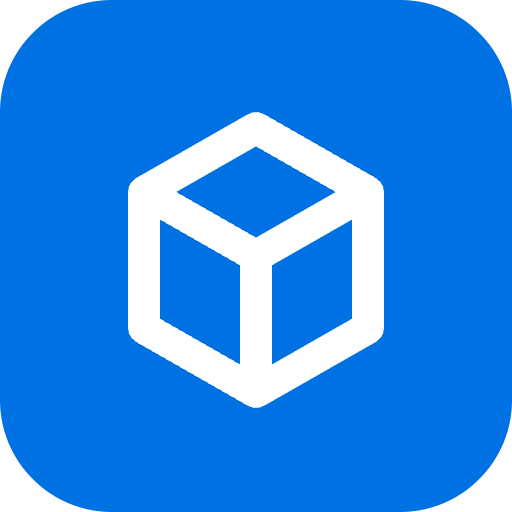
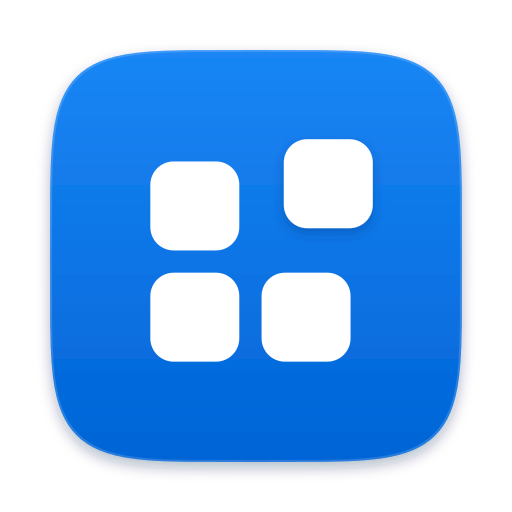
brand: new OpenMacApps mark and brand kit (#12)
Replace the cube mark with the chosen category-standard mark: a blue
squircle holding a 2x2 app grid with the top-right tile lifted out.
Site icons, sidebar and top bar brand, README badge and social card use
it; public/brand/ holds the kit and docs/BRAND.md the rules.

diff --git a/design/brand-board.html b/design/brand-board.html
@@ -1,0 +1,61 @@
+<!doctype html>
+<html lang="en">
+<meta charset="utf-8">
+<title>OpenMacApps brand board</title>
+<!-- Source of docs/brand.png. Capture at 1440 × 960, device scale 1, in a browser on macOS so system-ui resolves to SF Pro. -->
+<style>
+*{box-sizing:border-box}
+html,body{margin:0;width:1440px;height:960px;overflow:hidden;background:#f5f5f7;color:#1d1d1f;font:400 14px/1.4 system-ui,-apple-system,BlinkMacSystemFont,sans-serif;-webkit-font-smoothing:antialiased}
+body{padding:56px;display:grid;grid-template-columns:400px 1fr 1fr;grid-template-rows:auto 1fr 1fr auto;gap:24px}
+.panel{border-radius:20px;background:#fff;padding:28px;display:flex;flex-direction:column;gap:20px}
+.dark{background:#1e1e1e;color:#f5f5f7}
+.label{font-size:12px;font-weight:600;letter-spacing:.04em;text-transform:uppercase;color:#6e6e73}
+.dark .label{color:#a1a1a6}
+header{grid-column:1/-1;display:flex;align-items:baseline;justify-content:space-between}
+h1{margin:0;font-size:34px;font-weight:700;letter-spacing:-.02em}
+header p{margin:0;color:#6e6e73;font-size:17px}
+.panel>:last-child{margin:auto 0}
+.icon{grid-row:2/5}
+.icon img{width:300px;height:300px;align-self:center}
+.lockup img{height:48px;align-self:flex-start}
+.palette-panel{grid-column:2/4}
+.sizes{display:flex;align-items:flex-end;gap:28px}
+.sizes figure{margin:0;display:flex;flex-direction:column;align-items:center;gap:8px;font-size:12px;color:#6e6e73}
+.dark .sizes figure{color:#a1a1a6}
+.palette{display:flex;gap:16px}
+.swatch{flex:1;display:flex;flex-direction:column;gap:6px;font-size:13px}
+.chip{height:64px;border-radius:12px}
+.swatch b{font-weight:600}
+.swatch span{color:#6e6e73;font-variant-numeric:tabular-nums}
+</style>
+<header><h1>OpenMacApps</h1><p>An app grid with one tile lifted out: the apps are open.</p></header>
+<section class="panel icon"><span class="label">App icon</span><img src="../public/brand/app-icon.svg" alt=""></section>
+  <section class="panel lockup"><span class="label">Lockup, light</span><img src="../public/brand/lockup-light.svg" alt=""></section>
+  <section class="panel lockup dark"><span class="label">Lockup, dark</span><img src="../public/brand/lockup-dark.svg" alt=""></section>
+  <section class="panel"><span class="label">Mark and favicon, true size</span>
+    <div class="sizes">
+      <figure><img src="../public/brand/mark.svg" width="64" height="64" alt="">64</figure>
+      <figure><img src="../public/brand/mark.svg" width="28" height="28" alt="">28</figure>
+      <figure><img src="../public/favicon.svg" width="24" height="24" alt="">24</figure>
+      <figure><img src="../public/favicon.svg" width="16" height="16" alt="">16</figure>
+      <figure><img src="../public/brand/glyph-black.svg" width="28" height="28" alt="">glyph</figure>
+    </div>
+  </section>
+  <section class="panel dark"><span class="label">On dark</span>
+    <div class="sizes">
+      <figure><img src="../public/brand/mark.svg" width="64" height="64" alt="">64</figure>
+      <figure><img src="../public/brand/mark.svg" width="28" height="28" alt="">28</figure>
+      <figure><img src="../public/favicon.svg" width="24" height="24" alt="">24</figure>
+      <figure><img src="../public/favicon.svg" width="16" height="16" alt="">16</figure>
+      <figure><img src="../public/brand/glyph-white.svg" width="28" height="28" alt="">glyph</figure>
+    </div>
+  </section>
+<section class="panel palette-panel"><span class="label">Palette</span>
+  <div class="palette">
+    <div class="swatch"><div class="chip" style="background:#0071e3"></div><b>Brand Blue</b><span>#0071E3 · Action Blue</span></div>
+    <div class="swatch"><div class="chip" style="background:linear-gradient(#1a86f5,#0064d6)"></div><b>Icon gradient</b><span>#1A86F5 → #0064D6 · icon only</span></div>
+    <div class="swatch"><div class="chip" style="background:#1d1d1f"></div><b>Label</b><span>#1D1D1F · wordmark, light</span></div>
+    <div class="swatch"><div class="chip" style="background:#f5f5f7;box-shadow:inset 0 0 0 1px rgb(0 0 0 / .1)"></div><b>Label, dark</b><span>#F5F5F7 · wordmark, dark</span></div>
+  </div>
+</section>
+</html>

diff --git a/design/social-card.html b/design/social-card.html
@@ -8,15 +8,14 @@
 html,body{margin:0;width:1200px;height:630px;overflow:hidden;background:#f5f5f7;color:#1d1d1f;font-family:system-ui,-apple-system,BlinkMacSystemFont,sans-serif;-webkit-font-smoothing:antialiased}
 body{padding:64px 76px;display:flex;flex-direction:column;justify-content:space-between}
 .brand{display:flex;gap:14px;align-items:center;font-size:34px;font-weight:700;letter-spacing:-.6px}
-.mark{display:grid;place-items:center;width:52px;height:52px;border-radius:12px;background:#0071e3;color:#fff}
-.mark svg{width:30px;height:30px}
+.mark{width:52px;height:52px}
 h1{margin:0;font-size:62px;font-weight:700;line-height:1.08;letter-spacing:-1.6px}
 h1 span{color:#6e6e73}
 .shelf{display:flex;gap:22px;align-items:center}
 .shelf img{width:84px;height:84px;object-fit:contain}
 .get{margin-left:auto;padding:12px 30px;border-radius:999px;background:#0071e3;color:#fff;font-size:24px;font-weight:700}
 </style>
-<div class="brand"><span class="mark"><svg viewBox="0 0 24 24" fill="none" stroke="currentColor" stroke-width="2.1" stroke-linejoin="round"><path d="m12 3 9 5v9l-9 5-9-5V8Z"/><path d="m3 8 9 5 9-5M12 13v9"/></svg></span>OpenMacApps</div>
+<div class="brand"><img class="mark" src="../public/brand/mark.svg" alt="">OpenMacApps</div>
 <h1>Your next favorite Mac app.<br><span>Open source, with the license in view.</span></h1>
 <div class="shelf">
   <img src="../content/apps/iina/assets/icon.png" alt="">

diff --git a/public/sw.js b/public/sw.js
@@ -1,5 +1,5 @@
-// Bump the version when the precache list or caching strategy changes.
-const CACHE = 'site-v1';
+// Bump the version when the precache list, a precached file or the caching strategy changes.
+const CACHE = 'site-v2';
 const scope = new URL(self.registration.scope);
 const offlinePage = new URL('offline/', scope).href;
 const assets = new URL('_astro/', scope).pathname;

diff --git a/src/styles/global.css b/src/styles/global.css
@@ -192,16 +192,6 @@ main:focus {
   padding: 0 8px 14px;
 }
 
-.brand-mark {
-  display: grid;
-  place-items: center;
-  width: 28px;
-  height: 28px;
-  border-radius: 7px;
-  background: var(--accent-fill);
-  color: #fff;
-}
-
 .sidebar-search {
   position: relative;
   margin: 0 2px 10px;

diff --git a/docs/BRAND.md b/docs/BRAND.md
@@ -1,0 +1,60 @@
+# OpenMacApps brand
+
+![The OpenMacApps brand board: app icon, light and dark lockups, the mark and favicon at true size on light and dark, and the palette](brand.png)
+
+## The mark
+
+A blue squircle holding a white 2×2 grid of app tiles. The top-right tile is lifted up and out of the grid: the apps are open. It was chosen on 2026-11-06 (see `PRODUCT.md`, Brand Commitments) and replaces the earlier blue square with a cube.
+
+The geometry is fixed. Use the files below; never redraw, rebalance or re-space the tiles.
+
+## Files
+
+Everything lives in `public/brand/` and is served at `https://openmacapps.com/brand/`.
+
+| File | Use |
+| --- | --- |
+| `mark.svg` | Full-bleed squircle and glyph. Interface use above 24 px: the site's sidebar and top bar, lockups, documents. |
+| `mark-512.png` | `mark.svg` as a transparent PNG. |
+| `app-icon.svg` | 1024 px macOS-style icon: 824 px body at a 100 px inset, drop shadow, shadow under the lifted tile. Use where an app icon is expected (stores, listings, slides). |
+| `app-icon-1024.png`, `-512`, `-256`, `-128` | `app-icon.svg` rendered with a transparent background. |
+| `favicon.svg` | 16 px pixel-grid version. Use it for anything rendered at 24 px or smaller. |
+| `glyph.svg` | The 2×2 lifted-tile glyph alone, in `currentColor`. |
+| `glyph-white.svg`, `glyph-black.svg` | The glyph in white or black, for one-colour contexts (embossing, single-colour print, monochrome UI). |
+| `lockup-light.svg`, `lockup-dark.svg` | Mark plus wordmark, for light and dark backgrounds. |
+
+Site icons in `public/` (`favicon.svg`, `apple-touch-icon.png`, `icon-192.png`, `icon-512.png`, `icon-maskable-512.png`), the README badge (`public/badge.svg`) and the social card (`public/social-card.png`) are derived from these files; `docs/PUBLISHING.md` explains how to re-render them. In the site, `src/components/BrandMark.astro` inlines `mark.svg`.
+
+## Palette
+
+- **Brand Blue `#0071E3`**: the site's Action Blue (`--accent-fill`). Use it wherever the brand needs a flat blue: buttons, links in brand material, a coloured background behind the white glyph.
+- **Icon gradient `#1A86F5` → `#0064D6`**, top to bottom: only inside the mark and the app icon. Never use it for buttons, text, backgrounds or charts.
+- **White `#FFFFFF`**: the glyph, always.
+- **Wordmark ink**: Label `#1D1D1F` on light backgrounds, `#F5F5F7` on dark ones.
+
+## Type
+
+The wordmark is the product name, "OpenMacApps", set in bold with tight tracking. On the site it is live text in the system font (SF Pro on Apple platforms) at 700, -0.02em, from `site.name`. In the exported lockups it is outlined from Inter Display Bold (Inter 4.1, SIL Open Font License 1.1), so the files render the same everywhere.
+
+## Lockups
+
+- Mark to the left of the wordmark, never above or below it.
+- The mark's height is 1.6 × the wordmark's cap height, and the mark is centred on the cap height.
+- The gap between mark and wordmark is 0.35 × the mark's height.
+- Use `lockup-light.svg` on white or light grey, `lockup-dark.svg` on near-black. On a photo or a busy background, use the mark alone.
+- Do not rebuild the lockup in another font or retype the wordmark next to the mark at other proportions.
+
+## Clear space and size
+
+- Keep clear space of at least 25% of the mark's width on every side, for the mark alone and for lockups (measured from the mark).
+- At 24 px or smaller, use `favicon.svg`: its tiles sit on the pixel grid and stay crisp.
+- Never render the mark below 16 px.
+
+## Don'ts
+
+- Don't recolour the glyph, the squircle or the gradient. The glyph is white on blue, or one-colour white or black on its own.
+- Never make it orange: on OpenMacApps, orange means source-available.
+- Don't rotate, skew, stretch or mirror the mark, and don't move the lifted tile.
+- Don't add effects: no extra shadows, glows, outlines, bevels or textures. The app icon's own shadows are part of `app-icon.svg` only.
+- Don't place the mark in a container shape (circle, rounded square) of another colour.
+- No Apple marks, Apple logos or "App Store" wording next to the mark or anywhere in brand material. OpenMacApps is independent and not affiliated with Apple.

diff --git a/DESIGN.md b/DESIGN.md
@@ -373,7 +373,7 @@ An Apple system palette in two appearances: neutral greys that step from canvas 
 
 ### Primary
 
-- **Action Blue** (accent-fill): filled primary buttons, the brand mark, the skip link, `accent-color` for native controls, and the 26% `::selection` tint. It is the same in both appearances; its hover is a slightly brighter blue (accent-fill-hover). Text on it is white (on-color).
+- **Action Blue** (accent-fill): filled primary buttons, the skip link, `accent-color` for native controls, and the 26% `::selection` tint. It is the same in both appearances; its hover is a slightly brighter blue (accent-fill-hover). Text on it is white (on-color). It is also the flat Brand Blue; the brand mark itself uses its own icon gradient (#1A86F5 → #0064D6), which appears nowhere else. The mark, its files and its rules are in `docs/BRAND.md`.
 - **Link Blue** (link-light / link-dark): every text link, See All, the focus ring, the caret, sidebar row glyphs and the selected tab. Brightens in dark mode for contrast.
 - **Get Blue** (get-ink-light / get-ink-dark): the label on Get pills and secondary buttons. Matches Link Blue in light; a paler blue in dark so it reads on the grey fill.
 
@@ -552,7 +552,7 @@ A three-column definition list of hairline-ruled rows: footnote term in Secondar
 
 ### Navigation
 
-- **Sidebar:** brand (28px Action Blue mark with white glyph, 19px/700 wordmark from `site.name`), search, then rows for Discover, Search, Categories and Alternatives (Lucide `ArrowRightLeft`), a Collections group and a Categories group (12px/600 Secondary Label group labels), and a hairline-topped foot with About, How We Verify (Lucide `FileCheck`), Contribute and GitHub (external rows end in a small up-right arrow). Rows are 32px, field radius, Link Blue 20px glyphs (category rows use glyph tiles); hover and current page share the Selected fill, current adds weight 600. A row stays selected for pages beneath it (an app page selects its category, an alternatives page selects Alternatives, a topic page selects its category or, without one, Categories). On mobile, How We Verify keeps the About tab selected.
+- **Sidebar:** brand (28px brand mark, a blue squircle holding a white 2×2 app grid with the top-right tile lifted out, inlined by `BrandMark.astro`; 19px/700 wordmark from `site.name`), search, then rows for Discover, Search, Categories and Alternatives (Lucide `ArrowRightLeft`), a Collections group and a Categories group (12px/600 Secondary Label group labels), and a hairline-topped foot with About, How We Verify (Lucide `FileCheck`), Contribute and GitHub (external rows end in a small up-right arrow). Rows are 32px, field radius, Link Blue 20px glyphs (category rows use glyph tiles); hover and current page share the Selected fill, current adds weight 600. A row stays selected for pages beneath it (an app page selects its category, an alternatives page selects Alternatives, a topic page selects its category or, without one, Categories). On mobile, How We Verify keeps the About tab selected.
 - **Top bar (≤900px):** sticky, 52px plus safe area, Bar Glass with blur, brand at 17px and a 44px GitHub target.
 - **Tab bar (≤900px):** fixed bottom, five equal tabs (Discover, Categories, Alternatives, Search, About) with 22px icons and 10px labels in Secondary Label; the current tab turns Link Blue. Five is the ceiling: Topics are reached through Categories rather than a sixth tab.
 

diff --git a/docs/PUBLISHING.md b/docs/PUBLISHING.md
@@ -18,9 +18,9 @@ Links to listed apps (website, repository, download, license and sources) are or
 
 `/manifest.webmanifest` comes from `src/pages/manifest.webmanifest.ts`. Its name, description and colours come from `site.ts`, and its start URL and scope come from Astro's base path. It has Search, Categories and Alternatives shortcuts. `site.themeColor` holds the opaque colours of the translucent top bar (`--bg-bar` in `src/styles/global.css` flattened onto `--bg`). The manifest and the light and dark `theme-color` meta tags in `Layout.astro` read it, so update it when the bar colour in `global.css` changes.
 
-The icons in `public/` are rendered from `public/favicon.svg`: `icon-192.png` and `icon-512.png` (rounded square), `icon-maskable-512.png` (full-bleed, glyph inside the 80% safe zone) and `apple-touch-icon.png` (180 px, full-bleed, because iOS applies its own mask). If the mark changes, re-render them. One way is to draw the SVG onto a canvas at each size in a browser and save `canvas.toDataURL('image/png')`. For the full-bleed variants, remove the `rx` corner radius first.
+The icons in `public/` come from the brand kit in `public/brand/` (see [BRAND.md](BRAND.md)): `favicon.svg` is a copy of `brand/favicon.svg`, `icon-192.png` and `icon-512.png` are rendered from `brand/app-icon.svg`, and `icon-maskable-512.png` (glyph inside the 80% safe zone) and `apple-touch-icon.png` (180 px, because iOS applies its own mask) are full-bleed: the icon gradient as a plain square, glyph from `brand/mark.svg`, no transparency. If the mark changes, re-render them all, for example with `sharp` from a temporary directory, and bump `CACHE` in `public/sw.js` so the precached icons refresh. The brand board `docs/brand.png` is a 1440 × 960 screenshot (device scale 1) of `design/brand-board.html`, captured like the social card.
 
-`public/sw.js` is registered only in production builds. It precaches `/offline/` and the icons. Page navigations go to the network first and fall back to the last cached copy of that page, then to the offline page. Hashed `/_astro/` assets are served cache-first. Other origins (Simple Analytics, Homebrew, GitHub) and non-GET requests bypass it. Bump `CACHE` in `sw.js` when the precache list or strategy changes; activation deletes older caches. The offline page is `noindex` and stays out of the sitemap.
+`public/sw.js` is registered only in production builds. It precaches `/offline/` and the icons. Page navigations go to the network first and fall back to the last cached copy of that page, then to the offline page. Hashed `/_astro/` assets are served cache-first. Other origins (Simple Analytics, Homebrew, GitHub) and non-GET requests bypass it. Bump `CACHE` in `sw.js` when the precache list, a precached file or the strategy changes; activation deletes older caches. The offline page is `noindex` and stays out of the sitemap.
 
 ## RSS feed
 

diff --git a/PRODUCT.md b/PRODUCT.md
@@ -30,6 +30,8 @@ App folders are the source of truth. Metadata is validated. README is generated.
 
 OpenMacApps is the product name, chosen by the user on 2026-10-29 together with the openmacapps.com domain and the koative/openmacapps repository. Because the name contains "Mac", every page states that Mac and macOS are Apple trademarks and that the site is not affiliated with Apple. English UI confirmed. Design execution delegated to Impeccable, directly in working code. On 2026-10-17 the user asked for "a real App Store experience" and chose the Mac App Store canon: a sidebar shell (bottom tab bar on mobile), Discover shelves, product pages with a Get button, and light and dark appearance that follow the system. This supersedes the earlier dark showcase, which itself replaced a rejected pastel library design.
 
+2026-11-06: Koray chose the category-standard mark (blue squircle, 2×2 app grid with the top-right tile lifted out) on the impeccable decision page; quality bar Raycast, Setapp, Linear. It replaces the earlier blue square with a cube; the files and usage rules are in `docs/BRAND.md`.
+
 ## Evidence on Hand
 
 Starting reference: https://github.com/jeffreyjackson/mac-apps. Further directory and upstream project research in progress. No invented star counts, reviews, endorsements, compatibility promises, or screenshots.
